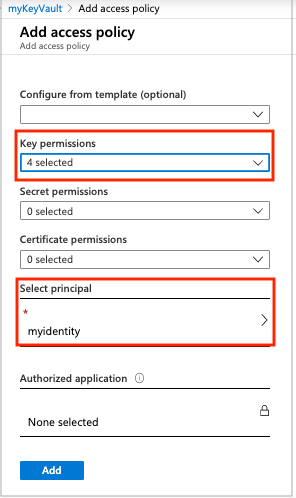
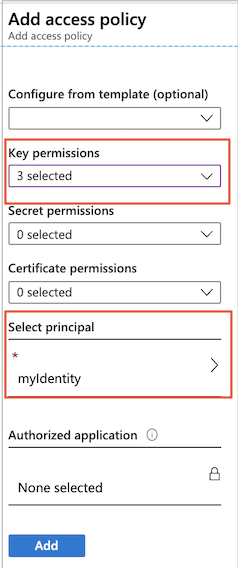
CLI walkthrough

Changed region(s): [[0.0, 0.0, 1.0, 1.0]]

diff --git a/articles/container-registry/container-registry-customer-managed-keys.md b/articles/container-registry/container-registry-customer-managed-keys.md
@@ -1,5 +1,5 @@
 ---
-title: Encryption at rest with customer-managed keys
+title: Encryption-at-rest with customer-managed keys
 description: Learn about encryption-at-rest of your Azure container registry, and how to encrypt your registry with a customer-managed key stored in Azure Key Vault
 ms.topic: article
 ms.date: 03/02/2020
@@ -8,9 +8,9 @@ ms.custom:
 
 # Encryption-at-rest of an Azure container registry using a customer-managed key in Azure Key Vault
 
-When you store images and other artifacts in an Azure container registry, Azure automatically encrypts registry content at rest with [service-managed keys](../security/fundamentals/encryption-atrest.md#data-encryption-models). You can supplement default encryption with an additional encryption layer using keys that you create and manage in Azure Key Vault. This article walks you through the steps using the Azure CLI and the Azure portal.
+When you store images and other artifacts in an Azure container registry, Azure automatically encrypts the registry content at rest with [service-managed keys](../security/fundamentals/encryption-atrest.md#data-encryption-models). You can supplement default encryption with an additional encryption layer using a key that you create and manage in Azure Key Vault. This article walks you through the steps using the Azure CLI and the Azure portal.
 
-Server-side encryption with customer-managed keys is supported through integration with [Azure Key Vault](../key-vault/key-vault-overview.md). You can create your own encryption keys and store them in a key vault, or you can use Azure Key Vault's APIs to generate encryption keys. Enabling registry encryption with customer-managed keys in Azure Key Vault doesn't affect registry performance.
+Server-side encryption with customer-managed keys is supported through integration with [Azure Key Vault](../key-vault/key-vault-overview.md). You can create your own encryption keys and store them in a key vault, or you can use Azure Key Vault's APIs to generate encryption keys. Enabling registry encryption with a customer-managed key in Azure Key Vault doesn't affect registry performance.
 
 This feature is only available in a **Premium** container registry. For information about registry service tiers and limits, see [Azure Container Registry SKUs](container-registry-skus.md).
 
@@ -48,7 +48,7 @@ az identity create \
   --name <managed-identity-name> 
 ```
 
-In the command output, take note of the `principalId` of the identity. You need this value in later steps to configure registry access to the key vault.
+In the command output, take note of the `id` `principalId` of the identity. You need these values in later steps to configure registry access to the key vault.
 
 ```JSON
 {
@@ -65,15 +65,23 @@ In the command output, take note of the `principalId` of the identity. You need 
 }
 ```
 
+For convenience, store these values in environment variables:
+
+```azurecli
+identityID=$(az identity show --resource-group <resource-group-name> --name <managed-identity-name> --query 'id' --output tsv)
+
+identityPrincipalID=$(az identity show --resource-group <resource-group-name> --name <managed-identity-name> --query 'principalId' --output tsv)
+```
+
 ### Create a key vault
 
 Create a key vault with [az keyvault create][az-keyvault-create] to store a customer-managed key for registry encryption. 
 
-To allow you to recover the key if you accidentally delete it, enable the following settings in the key vault: **Soft delete** and **Purge protection**. The following example includes parameters for these settings: 
+To use the key vault for a customer-managed key, you must enable the following settings : **Soft delete** and **Purge protection**. The following example includes parameters for these settings: 
 
 ```azurecli
 az keyvault create --name <key-vault-name> \
-  --resource group <resource-group-name> \
+  --resource-group <resource-group-name> \
   --enable-soft-delete \
   --enable-purge-protection \
   --location westus
@@ -81,22 +89,24 @@ az keyvault create --name <key-vault-name> \
 
 ### Add key vault access policy
 
-Configure a policy for the key vault so that the identity can access it. In the following [az keyvault set-policy][az-keyvault-set-policy] command, you pass the principal ID of the managed identity that you created. Set key permissions to **get**, **recover**, **wrapKey**, and **unwrapKey**.  
+Configure a policy for the key vault so that the identity can access it. In the following [az keyvault set-policy][az-keyvault-set-policy] command, you pass the principal ID of the managed identity that you created, stored previously in an environment variable. Set key permissions to **get**, **unwrapKey**, and **wrapKey**.  
 
 ```azurecli
 az keyvault set-policy \
   --resource-group <resource-group-name> \
   --name <key-vault-name> \
-  --object-id <managed-identity-principal-id> \
-  --key-permissions get recover unwrapKey wrapKey 
-
+  --object-id $identityPrincipalID \
+  --key-permissions get unwrapKey wrapKey 
 ```
+
 ### Create key and get key ID
 
 Run the [az keyvault key create][az-keyvault-key-create] command to create a key in the key vault.
 
 ```azurecli
-az keyvault key create --name <key-name> --vault-name <key-vault-name>
+az keyvault key create \
+  --name <key-name> \
+  --vault-name <key-vault-name>
 ```
 
 In the command output, take note of the key's ID, `kid`. You use this ID in the next step:
@@ -122,23 +132,28 @@ In the command output, take note of the key's ID, `kid`. You use this ID in the 
     "kty": "RSA",
 [...]
 ```
+For convenience, store this value in an environment variable:
+
+```azurecli
+keyID=$(az keyvault key show --name <keyname> --vault-name <key-vault-name> --query 'key.kid' --output tsv)
+```
 
 ### Create a registry with customer-managed key
 
-Run the [az acr create][az-acr-create] command to create a registry and enable the customer-managed key. Pass the managed identity principal ID and the key ID you obtained previously:
+Run the [az acr create][az-acr-create] command to create a registry and enable the customer-managed key. Pass the managed identity principal ID and the key ID, stored previously in environment variables:
 
 ```azurecli
 az acr create \
   --resource-group <resource-group-name> \
   --name <container-registry-name> \
-  --identity <managed-identity-principal-id> \
-  --kek <key-id> \
+  --identity $identityID \
+  --key-encryption-key $keyID \
   --sku Premium
 ```
 
 ### Show encryption status
 
-To show the status of registry encryption, run the [az acr encryption show-status][az-acr-encryption-show-status] command:
+To show whether registry encryption with a customer-managed key is enabled, run the [az acr encryption show-status][az-acr-encryption-show-status] command:
 
 ```azurecli
 az acr encryption show-status --name <registry-name> 
@@ -158,7 +173,7 @@ Take note of the **Resource Name** of the managed identity. You need this name i
 
 For steps to create a key vault, see [Quickstart: Set and retrieve a secret from Azure Key Vault using the Azure portal](../key-vault/quick-create-portal.md).
 
-When creating a key vault, in the **Basics** tab, ensure that the key vault has the following protection settings enabled: **Soft delete** and **Purge protection**. These settings allow you to recover the key if you accidentally delete it.
+When creating a key vault for a customer-managed key, in the **Basics** tab, you must enable the following protection settings: **Soft delete** and **Purge protection**. 
 
 ![Create key vault in the Azure portal](./media/container-registry-customer-managed-keys/create-key-vault.png)
 
@@ -168,7 +183,7 @@ Configure a policy for the key vault so that the identity can access it.
 
 1. Navigate to your key vault.
 1. Select **Settings** > **Access policies > +Add Access Policy**.
-1. Select **Key permissions**, and select **Get**, **Recover**, **Wrap Key**, and **Unwrap Key**.
+1. Select **Key permissions**, and select **Get**, **Unwrap Key**, and **Wrap Key**.
 1. Select **Select principal** and select the resource name of your user-assigned managed identity.  
 1. Select **Add**, then select **Save**.
 
@@ -343,28 +358,27 @@ You can rotate a customer-managed key in Azure Key Vault according to your compl
 az keyvault key create –-name <new-key-name> --vault-name <key-vault-name> 
 ```
 
-Then run the [az acr encryption rotatekey][az-acr-encryption-rotatekey] command, passing the name of the new key and the principal ID of the managed identity you previously configured:
+Then run the [az acr encryption rotate-key][az-acr-encryption-rotate-key] command, passing the new key ID and the principal ID of the managed identity you previously configured:
 
 ```azurecli
 az acr encryption rotatekey \
   --name <registry-name> \
-  --encryption-key-name <new-key-name> \
-  --identity <managed-identity-principal-id>
+  --key-encryption-key <new-key-id> \
+  --identity $identityPrincipalID
 ```
 
 ## Revoke key
 
-Revoke the customer-managed encryption key by changing the access policy on the key vault or by deleting the key. For example, use the [az keyvault delete-policy][az-keyvault-delete-policy] command to change the access policy of the managed identity used by your registry. For example
+Revoke the customer-managed encryption key by changing the access policy on the key vault or by deleting the key. For example, use the [az keyvault delete-policy][az-keyvault-delete-policy] command to change the access policy of the managed identity used by your registry. For example:
 
 ```azurecli
 az keyvault delete-policy \
   --resource-group <resource-group-name> \
   --name <key-vault-name> \
-  --object-id <managed-identity-principal-id>
+  --object-id $identityPrincipalID
 ```
 
 Revoking the key effectively blocks access to all registry data, since the registry can't access the encryption key. If access to the key is enabled or the deleted key is restored, your registry will pick the key so you can again access the encrypted registry data.
-
 
 ## Next steps
 
@@ -391,5 +405,5 @@ Revoking the key effectively blocks access to all registry data, since the regis
 [az-resource-show]: /cli/azure/resource#az-resource-show
 [az-acr-create]: /cli/azure/acr#az-acr-create
 [az-acr-show]: /cli/azure/acr#az-acr-show
-[az-acr-encryption-rotatekey]: /cli/azure/acr/encryption#az-acr-encryption-rotatekey
+[az-acr-encryption-rotate-key]: /cli/azure/acr/encryption#az-acr-encryption-rotate-key
 [az-acr-encryption-show-status]: /cli/azure/acr/encryption#az-acr-encryption-show-status
